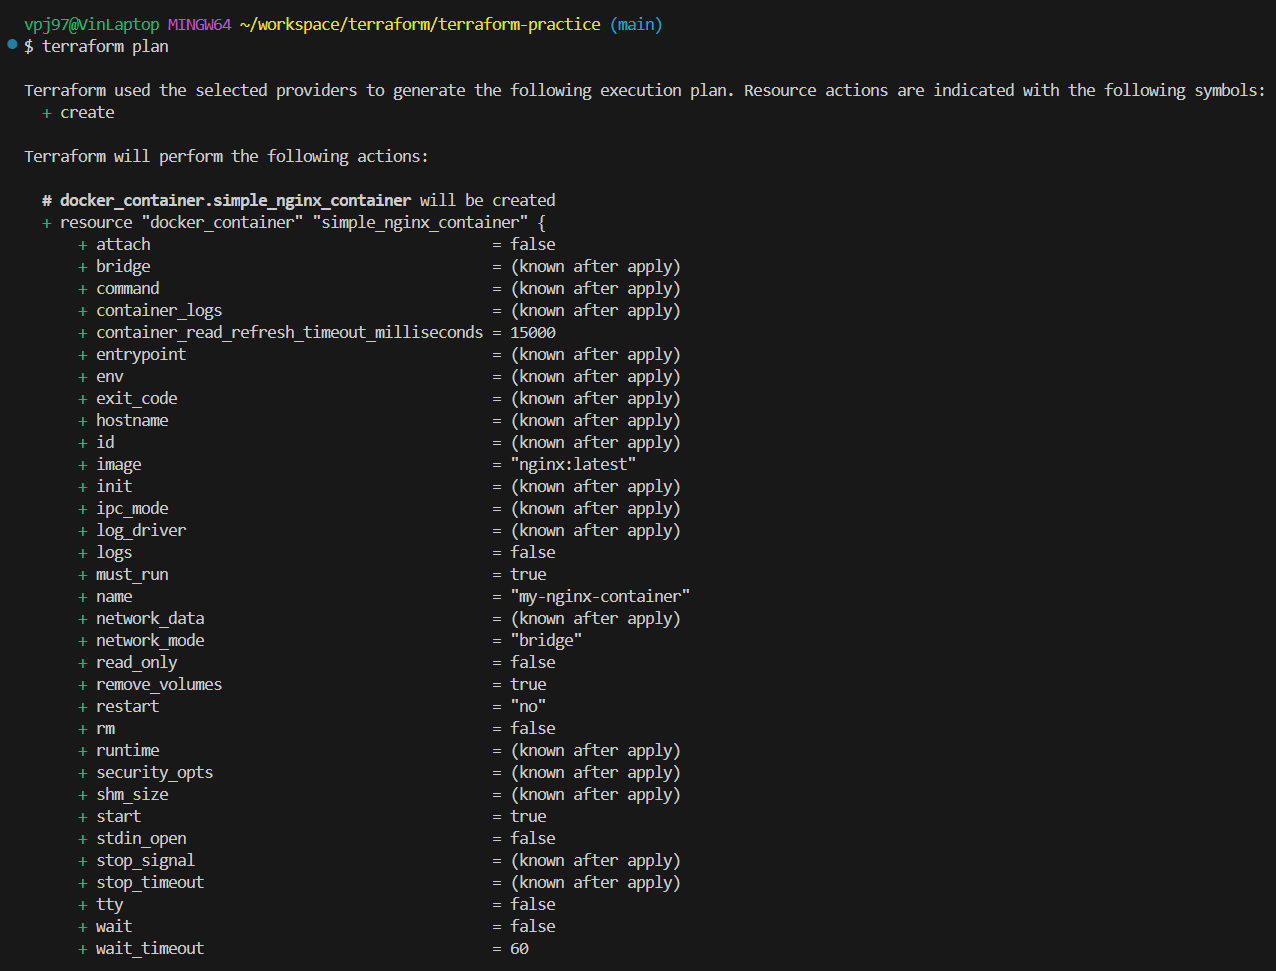
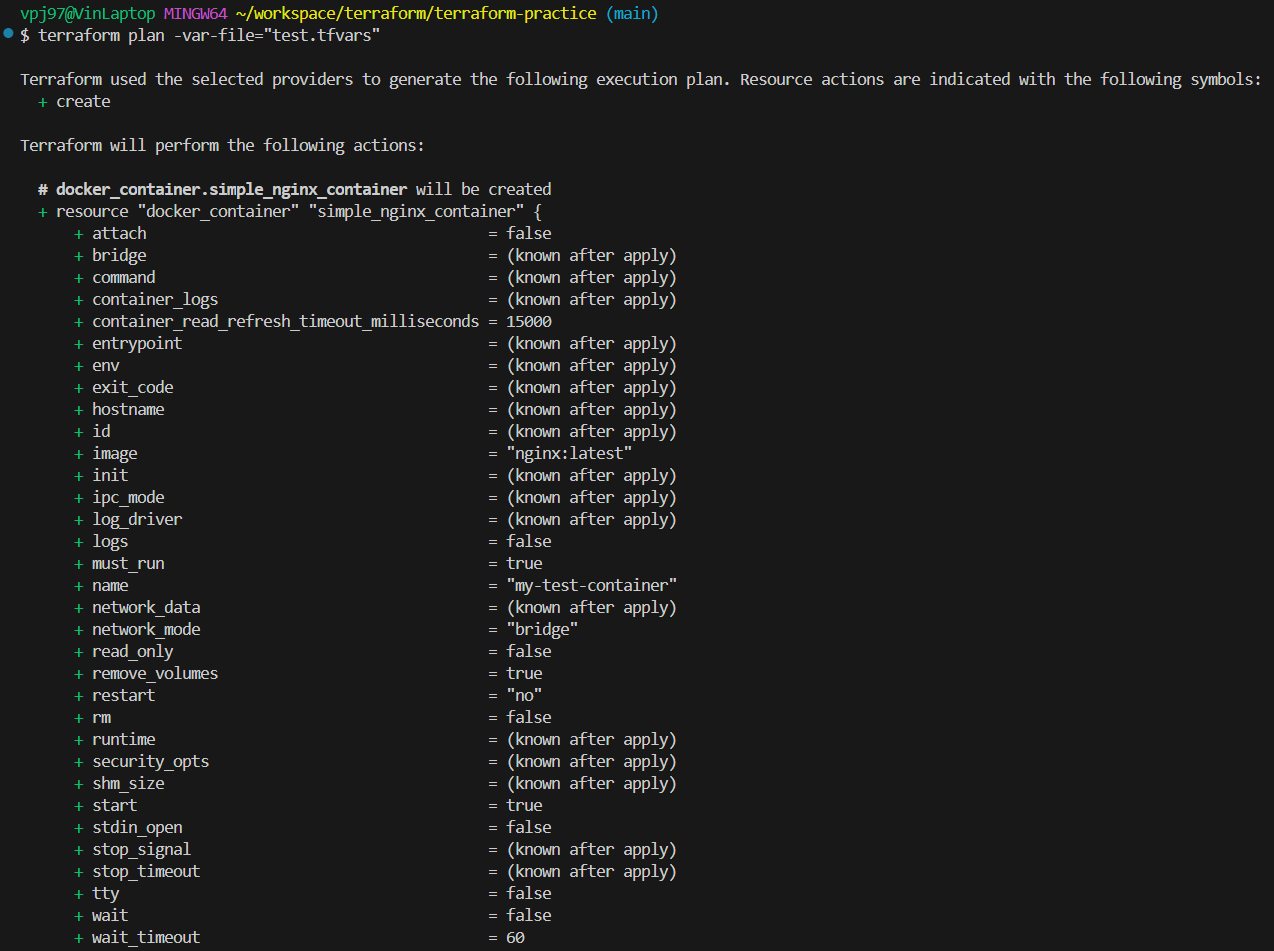
Completed Terraform workflow: variables, outputs, local-exec provisioner

Changed region(s): [[0.0, 0.1525, 0.551, 1.0], [0.0, 0.0, 0.9796, 0.122]]

diff --git a/README.md b/README.md
@@ -1,58 +1,88 @@
-# Terraform – Erste Schritte
+# Terraform – Nginx Deployment mit Variablen, Outputs und Provisioner
 
-Dies ist die Abgabe zur Aufgabe **"Erste Schritte mit Terraform: Provider und Ressourcen definieren & planen"**.  
+Dies ist die Abgabe zur Aufgabe **"Terraform Workflow abschließen & Konfiguration flexibel machen"**.  
 Die Terraform-Konfiguration befindet sich im Ordner:  
 `terraform/first-steps/`
 
 ## Inhalt
 
-- Definition eines Docker Providers (kreuzwerker/docker)
-- Erstellung von zwei Ressourcen:
-  - Einem `docker_image` (nginx:latest)
-  - Einem `docker_container` (basierend auf dem Image)
-- Durchführung der Befehle `terraform init` und `terraform plan`
-- Screenshots der Ausgaben
+- Verwendung des Docker Providers (`kreuzwerker/docker`)
+- Erstellung eines Nginx-Containers mit dynamischem HTML-Inhalt
+- Nutzung von Variablen (`variables.tf`) und Outputs (`outputs.tf`)
+- Konfigurierbar über `.tfvars` oder CLI
+- HTML-Inhalt wird über `local-exec` Provisioner in den Container geschrieben
+- Kompletter Terraform-Workflow: `init`, `plan`, `apply`, `destroy`
 
 ## Screenshots
 
 ### `terraform init`
 
-![terraform init Output](./screenshots/init.png)
+![terraform init](./screenshots/init.png)
 
 ### `terraform plan` (erste Hälfte)
 
-![terraform plan erste Hälfte](./screenshots/plan1.png)
+![terraform plan 1](./screenshots/plan1.png)
 
 ### `terraform plan` (zweite Hälfte)
 
-![terraform plan zweite Hälfte](./screenshots/plan2.png)
+![terraform plan 2](./screenshots/plan2.png)
+
+### `terraform apply`
+
+![terraform apply](./screenshots/apply.png)
+
+### Browseransicht (`http://localhost:8888`)
+
+![browser output](./screenshots/browser.png)
+
+### `terraform destroy`
+
+![terraform destroy](./screenshots/destroy.png)
+
+## Variablen (test.tfvars Beispiel)
+
+```hcl
+container_name     = "my-test-container"
+external_port      = 8888
+nginx_html_content = "<h1>Test Umgebung</h1><p>Dieser Inhalt kommt aus der test.tfvars Datei.</p>"
+```
+
+## Ausführung
+```bash
+terraform init
+terraform plan -var-file="test.tfvars"
+terraform apply -var-file="test.tfvars"
+terraform destroy -var-file="test.tfvars"
+```
 
 ## Reflexionsfragen
 
-### Was ist die Rolle des provider Blocks in deiner Konfiguration?  
-Der Provider definiert, wie Terraform mit der Plattform (hier Docker) kommuniziert.
+### Was hat der Befehl terraform apply getan, als du ihn zum ersten Mal mit deiner initialen Konfiguration (ohne Variablen) ausgeführt hast?
+Er hat den Container erstellt und den Zustand in der terraform.tfstate gespeichert.
 
-### Warum ist er notwendig?  
-Er stellt die Verbindung her und ermöglicht Terraform, Ressourcen zu verwalten.
+### Was ist mit dem Terraform State (terraform.tfstate) passiert, nachdem du terraform apply und terraform destroy ausgeführt hast?
+Nach apply wurde der aktuelle Zustand (Container existiert) gespeichert. Nach destroy wurde der Container entfernt und der State entsprechend aktualisiert.
 
-### Was ist die Rolle des resource Blocks?  
-Er beschreibt, welche Ressourcen Terraform erstellen oder verwalten soll.
+### Wie haben die Variablen (variable {}, var.) deine Konfiguration flexibler und wiederverwendbarer gemacht, verglichen mit der initialen Konfiguration (ohne Variablen)?
+Die Konfiguration kann jetzt wiederverwendet werden, ohne manuell Dateien zu ändern – Werte wie Port, Name oder HTML-Inhalt lassen sich dynamisch setzen.
 
-### Was repräsentiert er im Vergleich zu einem provider?  
-Provider = Verbindung, Resource = Objekt, das erstellt wird.
+### Auf welche drei Arten hast du Werte an deine Input-Variablen übergeben?  
+Beschreibe kurz die Methode und ihre Priorität.
+- Standardwerte in `variables.tf`
+- `.tfvars` Datei (z. B. `test.tfvars`)
+- Direkt über das CLI-Flag `-var`
 
-### Wie hast du in deiner Konfiguration eine implizite Abhängigkeit zwischen der docker_container Ressource und der docker_image Ressource erstellt?  
-Durch die Referenz: `image = docker_image.nginx_image.name`.
+**Priorität:** CLI > .tfvars > Default
 
-### Warum ist es wichtig, dass Terraform diese Abhängigkeit versteht?  
-Damit die Ressourcen in der richtigen Reihenfolge erstellt werden.
+### Was zeigen die Outputs (`output {}`, `terraform output`) an, nachdem du apply ausgeführt hast? Wofür sind sie nützlich?
+Sie zeigen die konfigurierten Werte wie den Containernamen, den externen Port und den final verwendeten HTML-Inhalt. Das hilft beim Nachvollziehen und bei der automatisierten Weiterverwendung.
 
-### Was genau bewirkt der Befehl terraform init, wenn du ihn zum ersten Mal in einem Verzeichnis ausführst?  
-Er lädt benötigte Provider-Plugins und erstellt die `.terraform`-Struktur.
+### Wie hast du den Inhalt der Variable `nginx_html_content` in die `index.html` Datei im laufenden Docker-Container bekommen? Welche Terraform-Funktion (Provisioner) wurde dafür genutzt?
+Mit einem `local-exec` Provisioner, der ein Bash-Kommando (`docker exec`) ausführt und den HTML-Text über `echo` in eine Datei im Container schreibt.
 
-### Was genau zeigt der Output von terraform plan an?  
-Er zeigt, welche Änderungen Terraform vornehmen würde, ohne sie tatsächlich auszuführen.
+
 
 ## Hinweise
 
 - `.terraform/` und `terraform.tfstate` sind per `.gitignore` ausgeschlossen.
+- `test.tfvars` enthält keine sensiblen Daten und ist im Repo enthalten.
